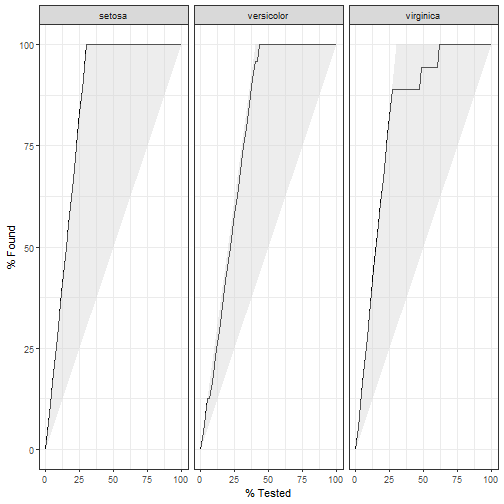
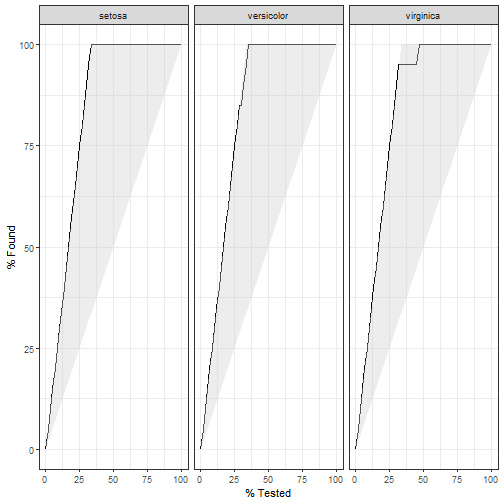
modelizacion modificaciones

diff --git a/slides/ml-fundamentals.html b/slides/ml-fundamentals.html
@@ -364,12 +364,12 @@ head(iris_training)
 ## # A tibble: 6 x 4
 ##   Sepal.Length Sepal.Width Petal.Width Species
 ##          &lt;dbl&gt;       &lt;dbl&gt;       &lt;dbl&gt; &lt;fct&gt;  
-## 1       -1.14       -0.173       -1.29 setosa 
-## 2       -1.02        1.14        -1.29 setosa 
-## 3       -0.560       1.80        -1.02 setosa 
-## 4       -1.48        0.705       -1.16 setosa 
-## 5       -1.02        0.705       -1.29 setosa 
-## 6       -1.72       -0.392       -1.29 setosa
+## 1       -0.959       1.10        -1.28 setosa 
+## 2       -1.20       -0.131       -1.28 setosa 
+## 3       -1.57        0.115       -1.28 setosa 
+## 4       -1.08        1.34        -1.28 setosa 
+## 5       -0.594       2.08        -1.02 setosa 
+## 6       -1.57        0.851       -1.15 setosa
 ```
 
 .footnote[https://tidymodels.github.io/recipes/reference/juice.html
@@ -407,16 +407,16 @@ iris_testing
 ## # A tibble: 60 x 4
 ##    Sepal.Length Sepal.Width Petal.Width Species
 ##           &lt;dbl&gt;       &lt;dbl&gt;       &lt;dbl&gt; &lt;fct&gt;  
-##  1       -0.906      0.924        -1.29 setosa 
-##  2       -1.37       0.266        -1.29 setosa 
-##  3       -1.48       0.0463       -1.29 setosa 
-##  4       -1.14       0.0463       -1.42 setosa 
-##  5       -0.560      1.36         -1.29 setosa 
-##  6       -1.25       0.705        -1.29 setosa 
-##  7       -0.906      1.58         -1.16 setosa 
-##  8       -0.560      0.705        -1.29 setosa 
-##  9       -0.906      1.36         -1.02 setosa 
-## 10       -1.48       1.14         -1.29 setosa 
+##  1       -1.44        0.360      -1.28  setosa 
+##  2       -1.08        0.851      -1.28  setosa 
+##  3       -1.81       -0.376      -1.28  setosa 
+##  4       -0.230       3.30       -1.02  setosa 
+##  5       -0.959       1.10       -1.15  setosa 
+##  6       -0.230       1.83       -1.15  setosa 
+##  7       -0.959       1.83       -1.15  setosa 
+##  8       -1.57        1.34       -1.28  setosa 
+##  9       -0.959       0.605      -0.893 setosa 
+## 10       -1.32        0.851      -1.28  setosa 
 ## # ... with 50 more rows
 ```
 
@@ -474,7 +474,7 @@ iris_ranger
 ```
 ## parsnip model object
 ## 
-## Fit time:  30ms 
+## Fit time:  21ms 
 ## Ranger result
 ## 
 ## Call:
@@ -488,7 +488,7 @@ iris_ranger
 ## Target node size:                 10 
 ## Variable importance mode:         none 
 ## Splitrule:                        gini 
-## OOB prediction error (Brier s.):  0.06791024
+## OOB prediction error (Brier s.):  0.07938048
 ```
 
 
@@ -508,7 +508,7 @@ iris_rf
 ```
 ## parsnip model object
 ## 
-## Fit time:  10ms 
+## Fit time:  21ms 
 ## 
 ## Call:
 ##  randomForest(x = as.data.frame(x), y = y, ntree = ~100) 
@@ -516,12 +516,12 @@ iris_rf
 ##                      Number of trees: 100
 ## No. of variables tried at each split: 1
 ## 
-##         OOB estimate of  error rate: 5.56%
+##         OOB estimate of  error rate: 11.11%
 ## Confusion matrix:
 ##            setosa versicolor virginica class.error
-## setosa         32          0         0  0.00000000
-## versicolor      0         24         2  0.07692308
-## virginica       0          3        29  0.09375000
+## setosa         30          0         0   0.0000000
+## versicolor      0         24         6   0.2000000
+## virginica       0          4        26   0.1333333
 ```
 
 ---
@@ -583,16 +583,16 @@ iris_ranger %&gt;%
 ## # A tibble: 60 x 5
 ##    .pred_class Sepal.Length Sepal.Width Petal.Width Species
 ##    &lt;fct&gt;              &lt;dbl&gt;       &lt;dbl&gt;       &lt;dbl&gt; &lt;fct&gt;  
-##  1 setosa            -0.906      0.924        -1.29 setosa 
-##  2 setosa            -1.37       0.266        -1.29 setosa 
-##  3 setosa            -1.48       0.0463       -1.29 setosa 
-##  4 setosa            -1.14       0.0463       -1.42 setosa 
-##  5 setosa            -0.560      1.36         -1.29 setosa 
-##  6 setosa            -1.25       0.705        -1.29 setosa 
-##  7 setosa            -0.906      1.58         -1.16 setosa 
-##  8 setosa            -0.560      0.705        -1.29 setosa 
-##  9 setosa            -0.906      1.36         -1.02 setosa 
-## 10 setosa            -1.48       1.14         -1.29 setosa 
+##  1 setosa            -1.44        0.360      -1.28  setosa 
+##  2 setosa            -1.08        0.851      -1.28  setosa 
+##  3 setosa            -1.81       -0.376      -1.28  setosa 
+##  4 setosa            -0.230       3.30       -1.02  setosa 
+##  5 setosa            -0.959       1.10       -1.15  setosa 
+##  6 setosa            -0.230       1.83       -1.15  setosa 
+##  7 setosa            -0.959       1.83       -1.15  setosa 
+##  8 setosa            -1.57        1.34       -1.28  setosa 
+##  9 setosa            -0.959       0.605      -0.893 setosa 
+## 10 setosa            -1.32        0.851      -1.28  setosa 
 ## # ... with 50 more rows
 ```
 
@@ -622,7 +622,7 @@ iris_ranger %&gt;%
 ##   .metric  .estimator .estimate
 ##   &lt;chr&gt;    &lt;chr&gt;          &lt;dbl&gt;
 ## 1 accuracy multiclass     0.967
-## 2 kap      multiclass     0.949
+## 2 kap      multiclass     0.950
 ```
 
 ---
@@ -643,7 +643,7 @@ iris_rf %&gt;%
 ##   .metric  .estimator .estimate
 ##   &lt;chr&gt;    &lt;chr&gt;          &lt;dbl&gt;
 ## 1 accuracy multiclass     0.967
-## 2 kap      multiclass     0.949
+## 2 kap      multiclass     0.950
 ```
 
 ---
@@ -660,16 +660,16 @@ iris_ranger %&gt;%
 ## # A tibble: 60 x 3
 ##    .pred_setosa .pred_versicolor .pred_virginica
 ##           &lt;dbl&gt;            &lt;dbl&gt;           &lt;dbl&gt;
-##  1        0.999          0               0.00125
-##  2        0.984          0.00995         0.00582
-##  3        0.977          0.0193          0.00375
-##  4        0.969          0.0270          0.00375
-##  5        0.962          0.0234          0.0149 
-##  6        0.992          0               0.00833
-##  7        0.989          0               0.0109 
-##  8        0.948          0.0434          0.00833
-##  9        0.989          0               0.0109 
-## 10        0.991          0               0.00889
+##  1        0.973          0.0240          0.003  
+##  2        0.986          0.00667         0.00683
+##  3        0.872          0.122           0.00622
+##  4        0.822          0.117           0.0609 
+##  5        0.991          0.00886         0      
+##  6        0.802          0.117           0.0809 
+##  7        0.973          0.00886         0.0177 
+##  8        1              0               0      
+##  9        0.925          0.0386          0.0359 
+## 10        0.993          0               0.00683
 ## # ... with 50 more rows
 ```
 ---
@@ -688,16 +688,16 @@ iris_probs
 ## # A tibble: 60 x 7
 ##    .pred_setosa .pred_versicolor .pred_virginica Sepal.Length Sepal.Width
 ##           &lt;dbl&gt;            &lt;dbl&gt;           &lt;dbl&gt;        &lt;dbl&gt;       &lt;dbl&gt;
-##  1        0.999          0               0.00125       -0.906      0.924 
-##  2        0.984          0.00995         0.00582       -1.37       0.266 
-##  3        0.977          0.0193          0.00375       -1.48       0.0463
-##  4        0.969          0.0270          0.00375       -1.14       0.0463
-##  5        0.962          0.0234          0.0149        -0.560      1.36  
-##  6        0.992          0               0.00833       -1.25       0.705 
-##  7        0.989          0               0.0109        -0.906      1.58  
-##  8        0.948          0.0434          0.00833       -0.560      0.705 
-##  9        0.989          0               0.0109        -0.906      1.36  
-## 10        0.991          0               0.00889       -1.48       1.14  
+##  1        0.973          0.0240          0.003         -1.44        0.360
+##  2        0.986          0.00667         0.00683       -1.08        0.851
+##  3        0.872          0.122           0.00622       -1.81       -0.376
+##  4        0.822          0.117           0.0609        -0.230       3.30 
+##  5        0.991          0.00886         0             -0.959       1.10 
+##  6        0.802          0.117           0.0809        -0.230       1.83 
+##  7        0.973          0.00886         0.0177        -0.959       1.83 
+##  8        1              0               0             -1.57        1.34 
+##  9        0.925          0.0386          0.0359        -0.959       0.605
+## 10        0.993          0               0.00683       -1.32        0.851
 ## # ... with 50 more rows, and 2 more variables: Petal.Width &lt;dbl&gt;, Species &lt;fct&gt;
 ```
 
@@ -714,13 +714,13 @@ iris_probs %&gt;%
 ```
 
 ```
-## Observations: 135
+## Observations: 139
 ## Variables: 5
 ## $ .level          &lt;chr&gt; "setosa", "setosa", "setosa", "setosa", "setosa", "...
-## $ .n              &lt;dbl&gt; 0, 2, 3, 5, 7, 9, 10, 12, 13, 14, 15, 16, 18, 19, 2...
-## $ .n_events       &lt;dbl&gt; 0, 2, 3, 5, 7, 9, 10, 12, 13, 14, 15, 16, 18, 18, 1...
-## $ .percent_tested &lt;dbl&gt; 0.000000, 3.333333, 5.000000, 8.333333, 11.666667, ...
-## $ .percent_found  &lt;dbl&gt; 0.00000, 11.11111, 16.66667, 27.77778, 38.88889, 50...
+## $ .n              &lt;dbl&gt; 0, 1, 3, 4, 5, 6, 8, 9, 10, 11, 13, 14, 15, 16, 17,...
+## $ .n_events       &lt;dbl&gt; 0, 1, 3, 4, 5, 6, 8, 9, 10, 11, 13, 14, 15, 16, 17,...
+## $ .percent_tested &lt;dbl&gt; 0.000000, 1.666667, 5.000000, 6.666667, 8.333333, 1...
+## $ .percent_found  &lt;dbl&gt; 0, 5, 15, 20, 25, 30, 40, 45, 50, 55, 65, 70, 75, 8...
 ```
 
 
@@ -779,10 +779,18 @@ predict(iris_ranger, iris_testing, type = "prob") %&gt;%
 ##   .metric     .estimator .estimate
 ##   &lt;chr&gt;       &lt;chr&gt;          &lt;dbl&gt;
 ## 1 accuracy    multiclass     0.967
-## 2 kap         multiclass     0.949
-## 3 mn_log_loss multiclass     0.206
-## 4 roc_auc     hand_till      0.980
+## 2 kap         multiclass     0.950
+## 3 mn_log_loss multiclass     0.185
+## 4 roc_auc     hand_till      0.995
 ```
+
+---
+&lt;img src="C://Users/Roxana/curso-r-analisis-datos/img/tidymodels.png" width="10%" align="right" /&gt;
+
+# Resumiendo
+
+&lt;img src="C://Users/Roxana/curso-r-analisis-datos/img/resumen-tidymodels.png" width="100%" align="right" /&gt;
+
 
 
 ---
